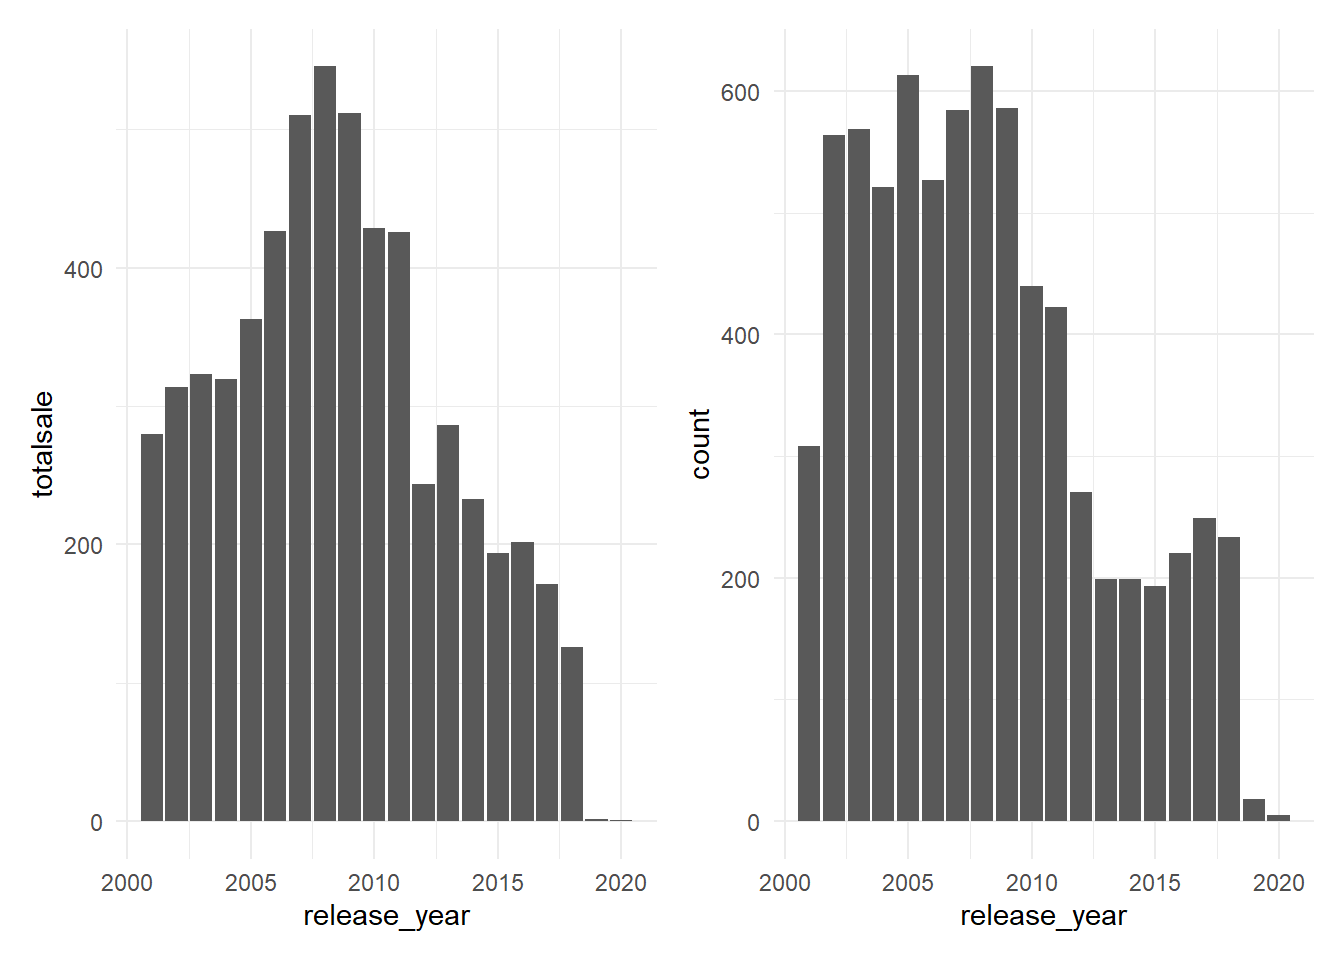
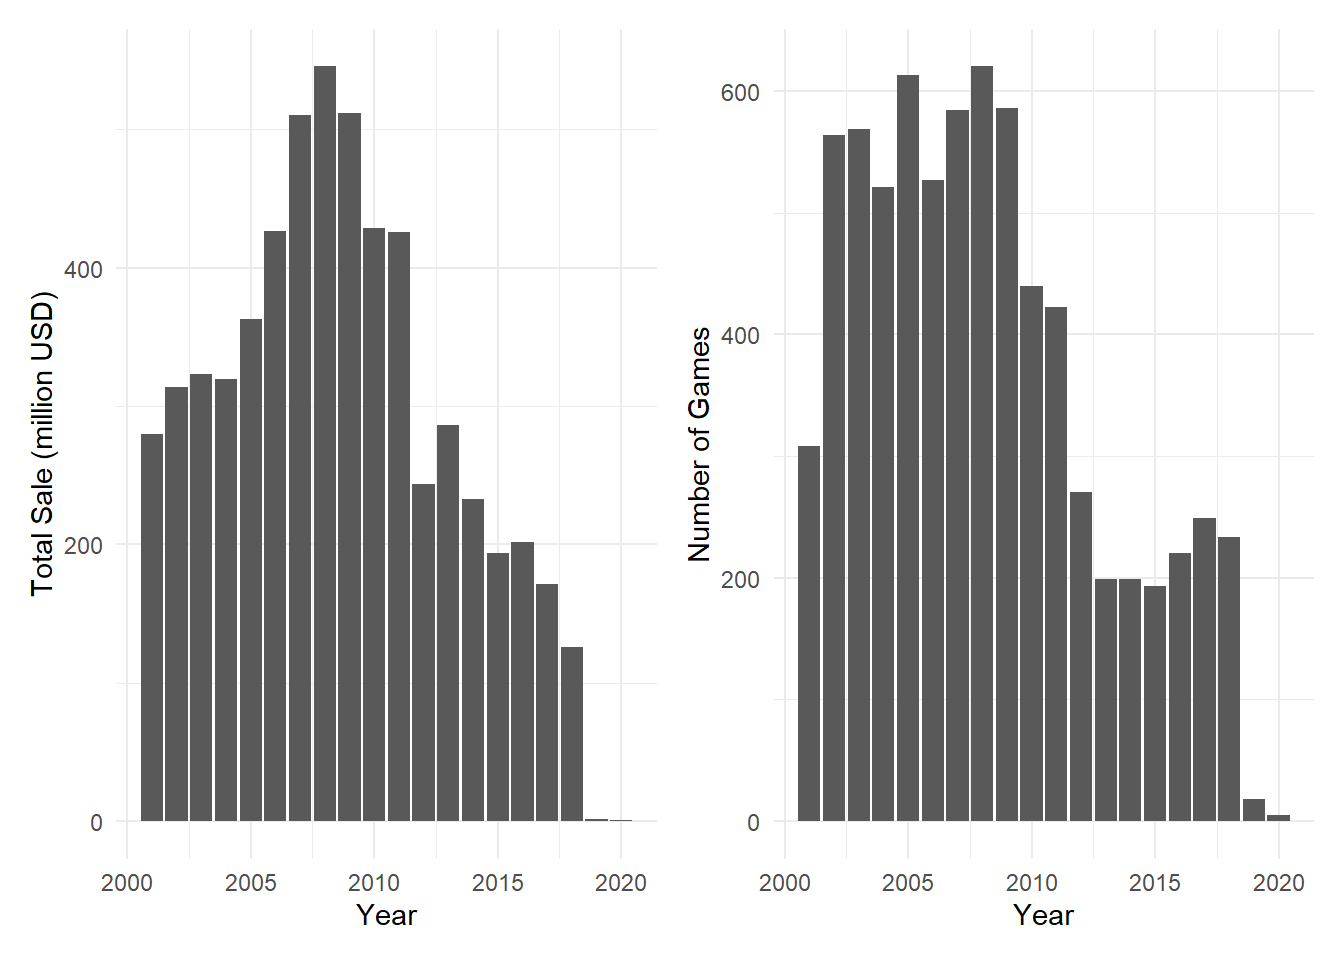
Added axis labels to final report and graph to shiny app

diff --git a/final_report.html b/final_report.html
@@ -456,7 +456,8 @@ totalsale = games_df %&gt;%
   ) %&gt;% 
   drop_na() %&gt;% 
   ggplot(aes(x = release_year, y = totalsale)) +
-  geom_col() 
+  geom_col() +
+  labs(x = &quot;Year&quot;, y = &quot;Total Sale (million USD)&quot;)
 
 totalcount = games_df %&gt;% 
  group_by(release_year) %&gt;% 
@@ -465,7 +466,9 @@ totalcount = games_df %&gt;%
   ) %&gt;% 
   drop_na() %&gt;% 
   ggplot(aes(x = release_year, y = count)) +
-  geom_col()  
+  geom_col() +
+  labs(x = &quot;Year&quot;, y = &quot;Number of Games&quot;)
+
 
 totalsale + totalcount</code></pre>
 <p><img src="final_report_files/figure-html/q1-1.png" width="672" /></p>
@@ -475,15 +478,18 @@ totalsale + totalcount</code></pre>
 <pre class="r"><code>games_df %&gt;% 
   ggplot(aes(x = genre, y = total_sale, fill = console_developer)) +
   geom_bar(stat = &quot;identity&quot;, position = &quot;stack&quot;) +
-  theme(axis.text.x = element_text(angle = 90, vjust = 0.5, hjust = 1))</code></pre>
+  theme(axis.text.x = element_text(angle = 90, vjust = 0.5, hjust = 1)) +
+  labs(x = &quot;Genre&quot;, y = &quot;Total Sale (million USD)&quot;, fill = &quot;Console Developer&quot;)</code></pre>
 <p><img src="final_report_files/figure-html/q2-1.png" width="672" /></p>
 </div>
 <div id="question-3" class="section level3">
 <h3>Question 3</h3>
 <pre class="r"><code>games_df %&gt;% 
-  ggscatter(., x = &quot;critic_score&quot;, y = &quot;total_sale&quot;, add = &quot;reg.line&quot;, add.params = list(color = &quot;red&quot;)) +
-  stat_cor(label.x = 3, label.y = 20) +
-  stat_regline_equation(label.x = 3, label.y = 15)</code></pre>
+  filter(total_sale &lt; 5) %&gt;% 
+  ggplot(aes(x = critic_score, y = total_sale, color = console_developer)) +
+  geom_point(alpha = 0.2) +
+  geom_smooth(method = &#39;lm&#39;, se = F) +
+  labs(x = &quot;Critic Score&quot;, y = &quot;Total Sale (million USD)&quot;, color = &quot;Console Developer&quot;)</code></pre>
 <p><img src="final_report_files/figure-html/q3-1.png" width="672" /></p>
 </div>
 <div id="question-4" class="section level3">
@@ -491,7 +497,8 @@ totalsale + totalcount</code></pre>
 <pre class="r"><code>games_df %&gt;% 
   mutate(n_platforms = as.factor(n_platforms)) %&gt;% 
   ggplot(aes(x = n_platforms, y = total_sale, fill = console_developer)) +
-  geom_bar(stat = &quot;identity&quot;, position = &quot;stack&quot;)</code></pre>
+  geom_bar(stat = &quot;identity&quot;, position = &quot;stack&quot;) +
+  labs(x = &quot;Number of Platforms&quot;, y = &quot;Total Sale (million USD)&quot;, fill = &quot;Console Developer&quot;)</code></pre>
 <p><img src="final_report_files/figure-html/q4-1.png" width="672" /></p>
 </div>
 </div>
